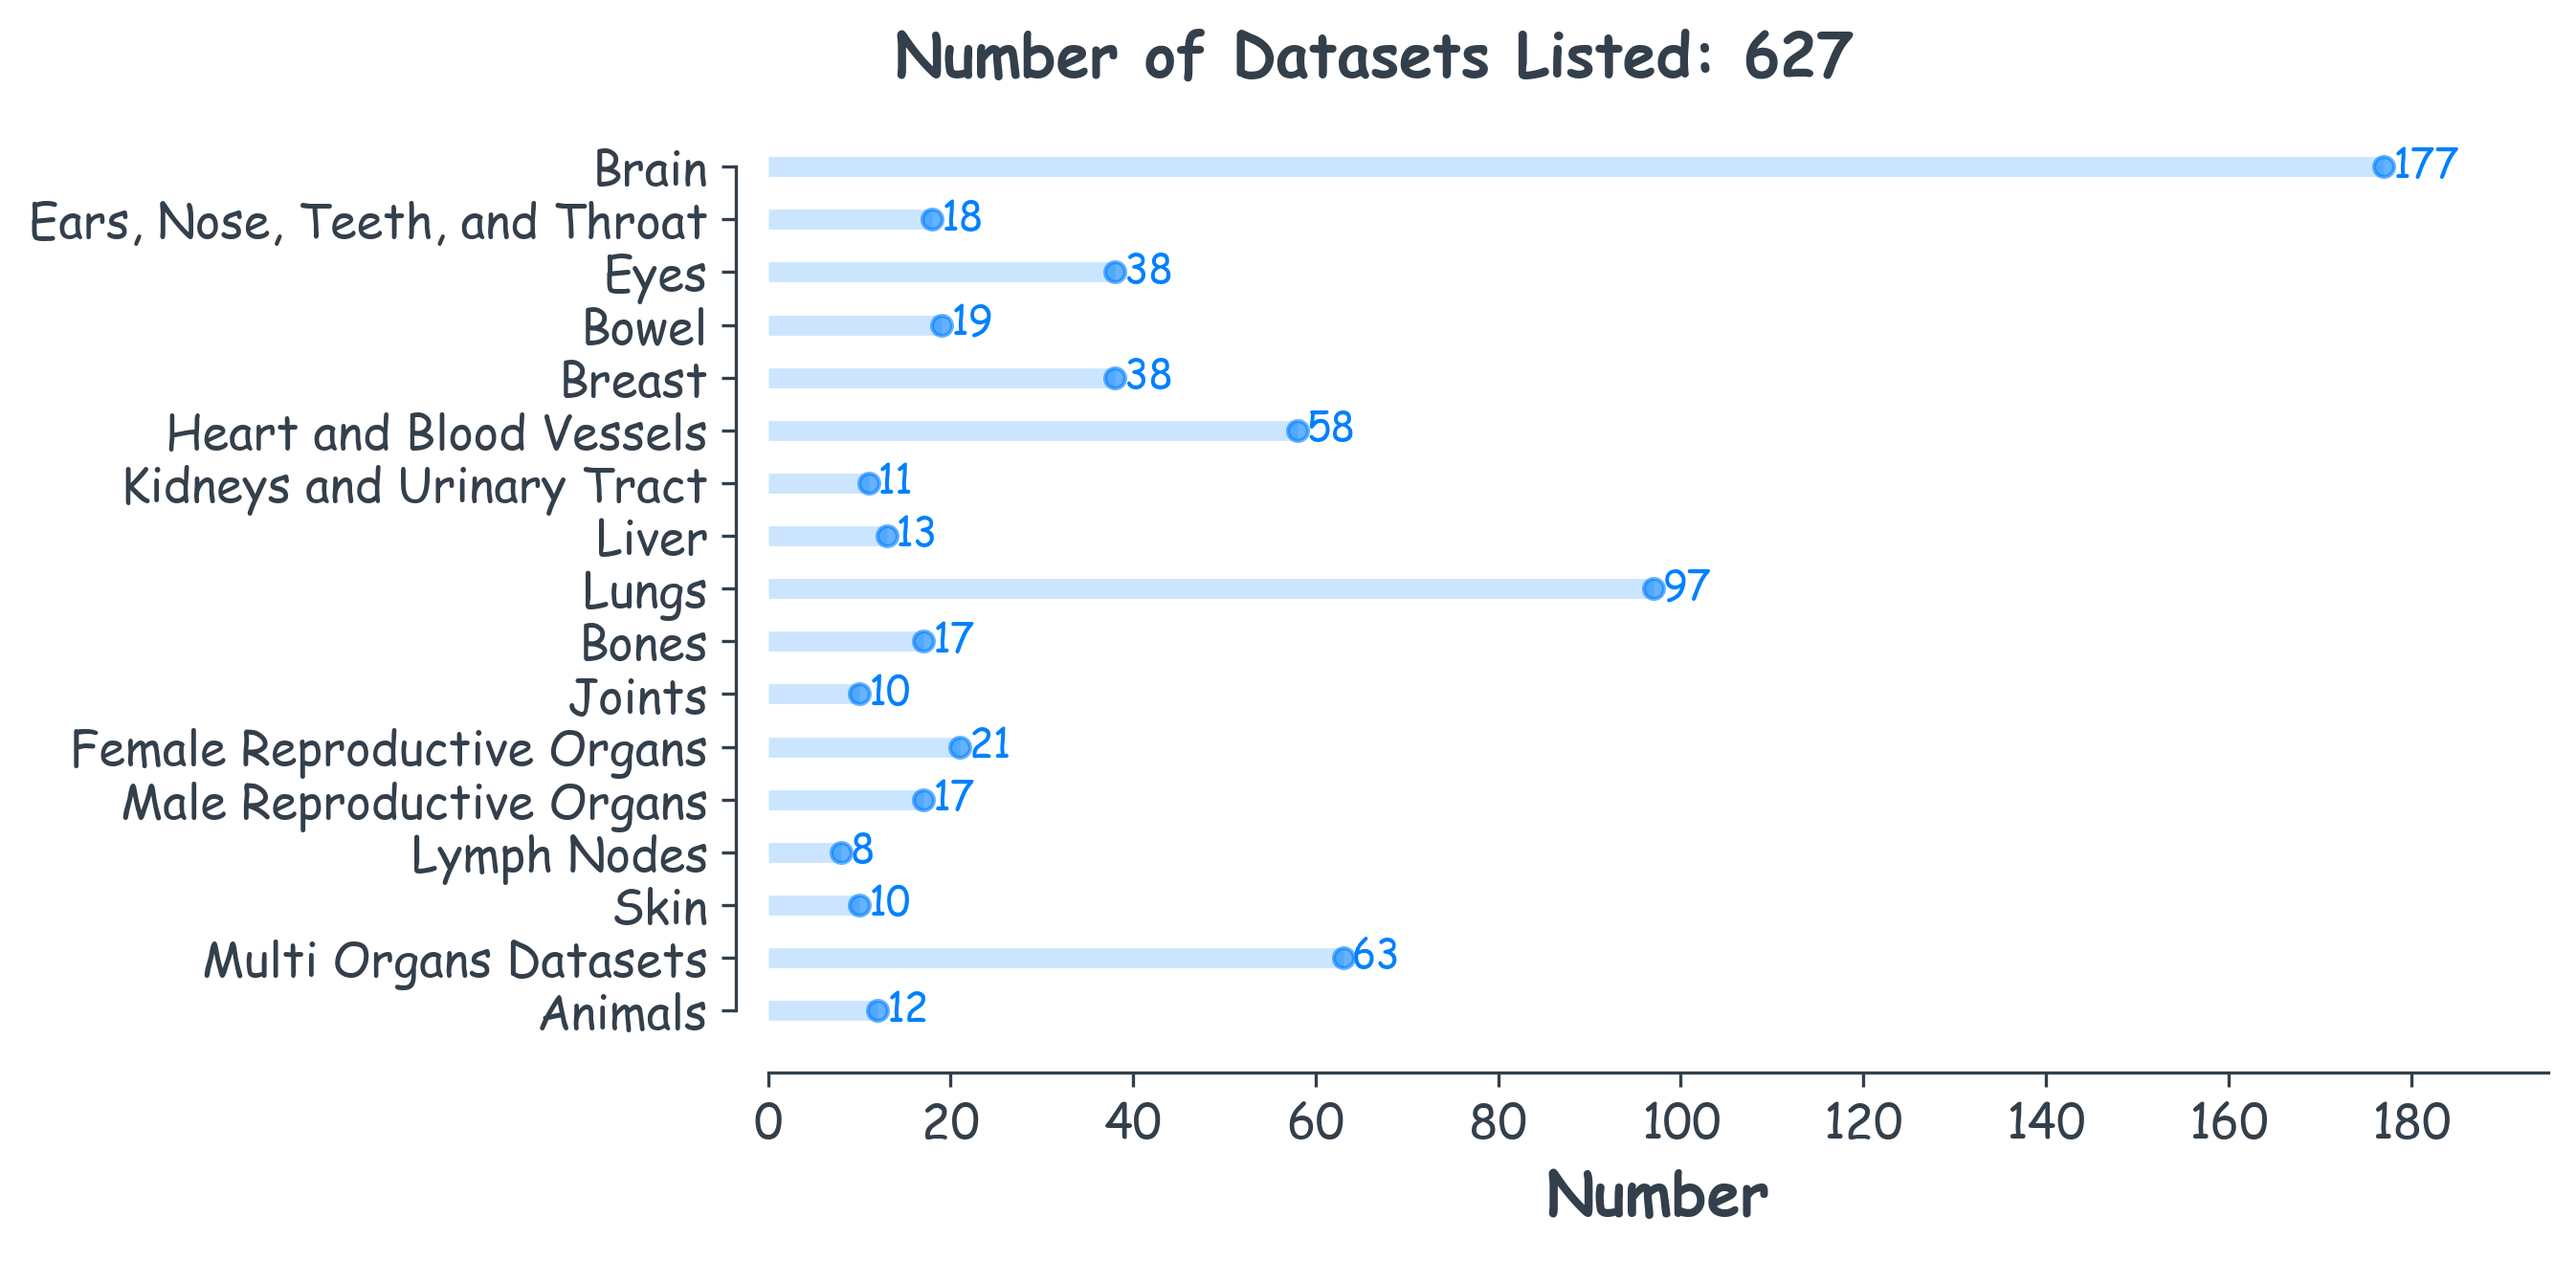
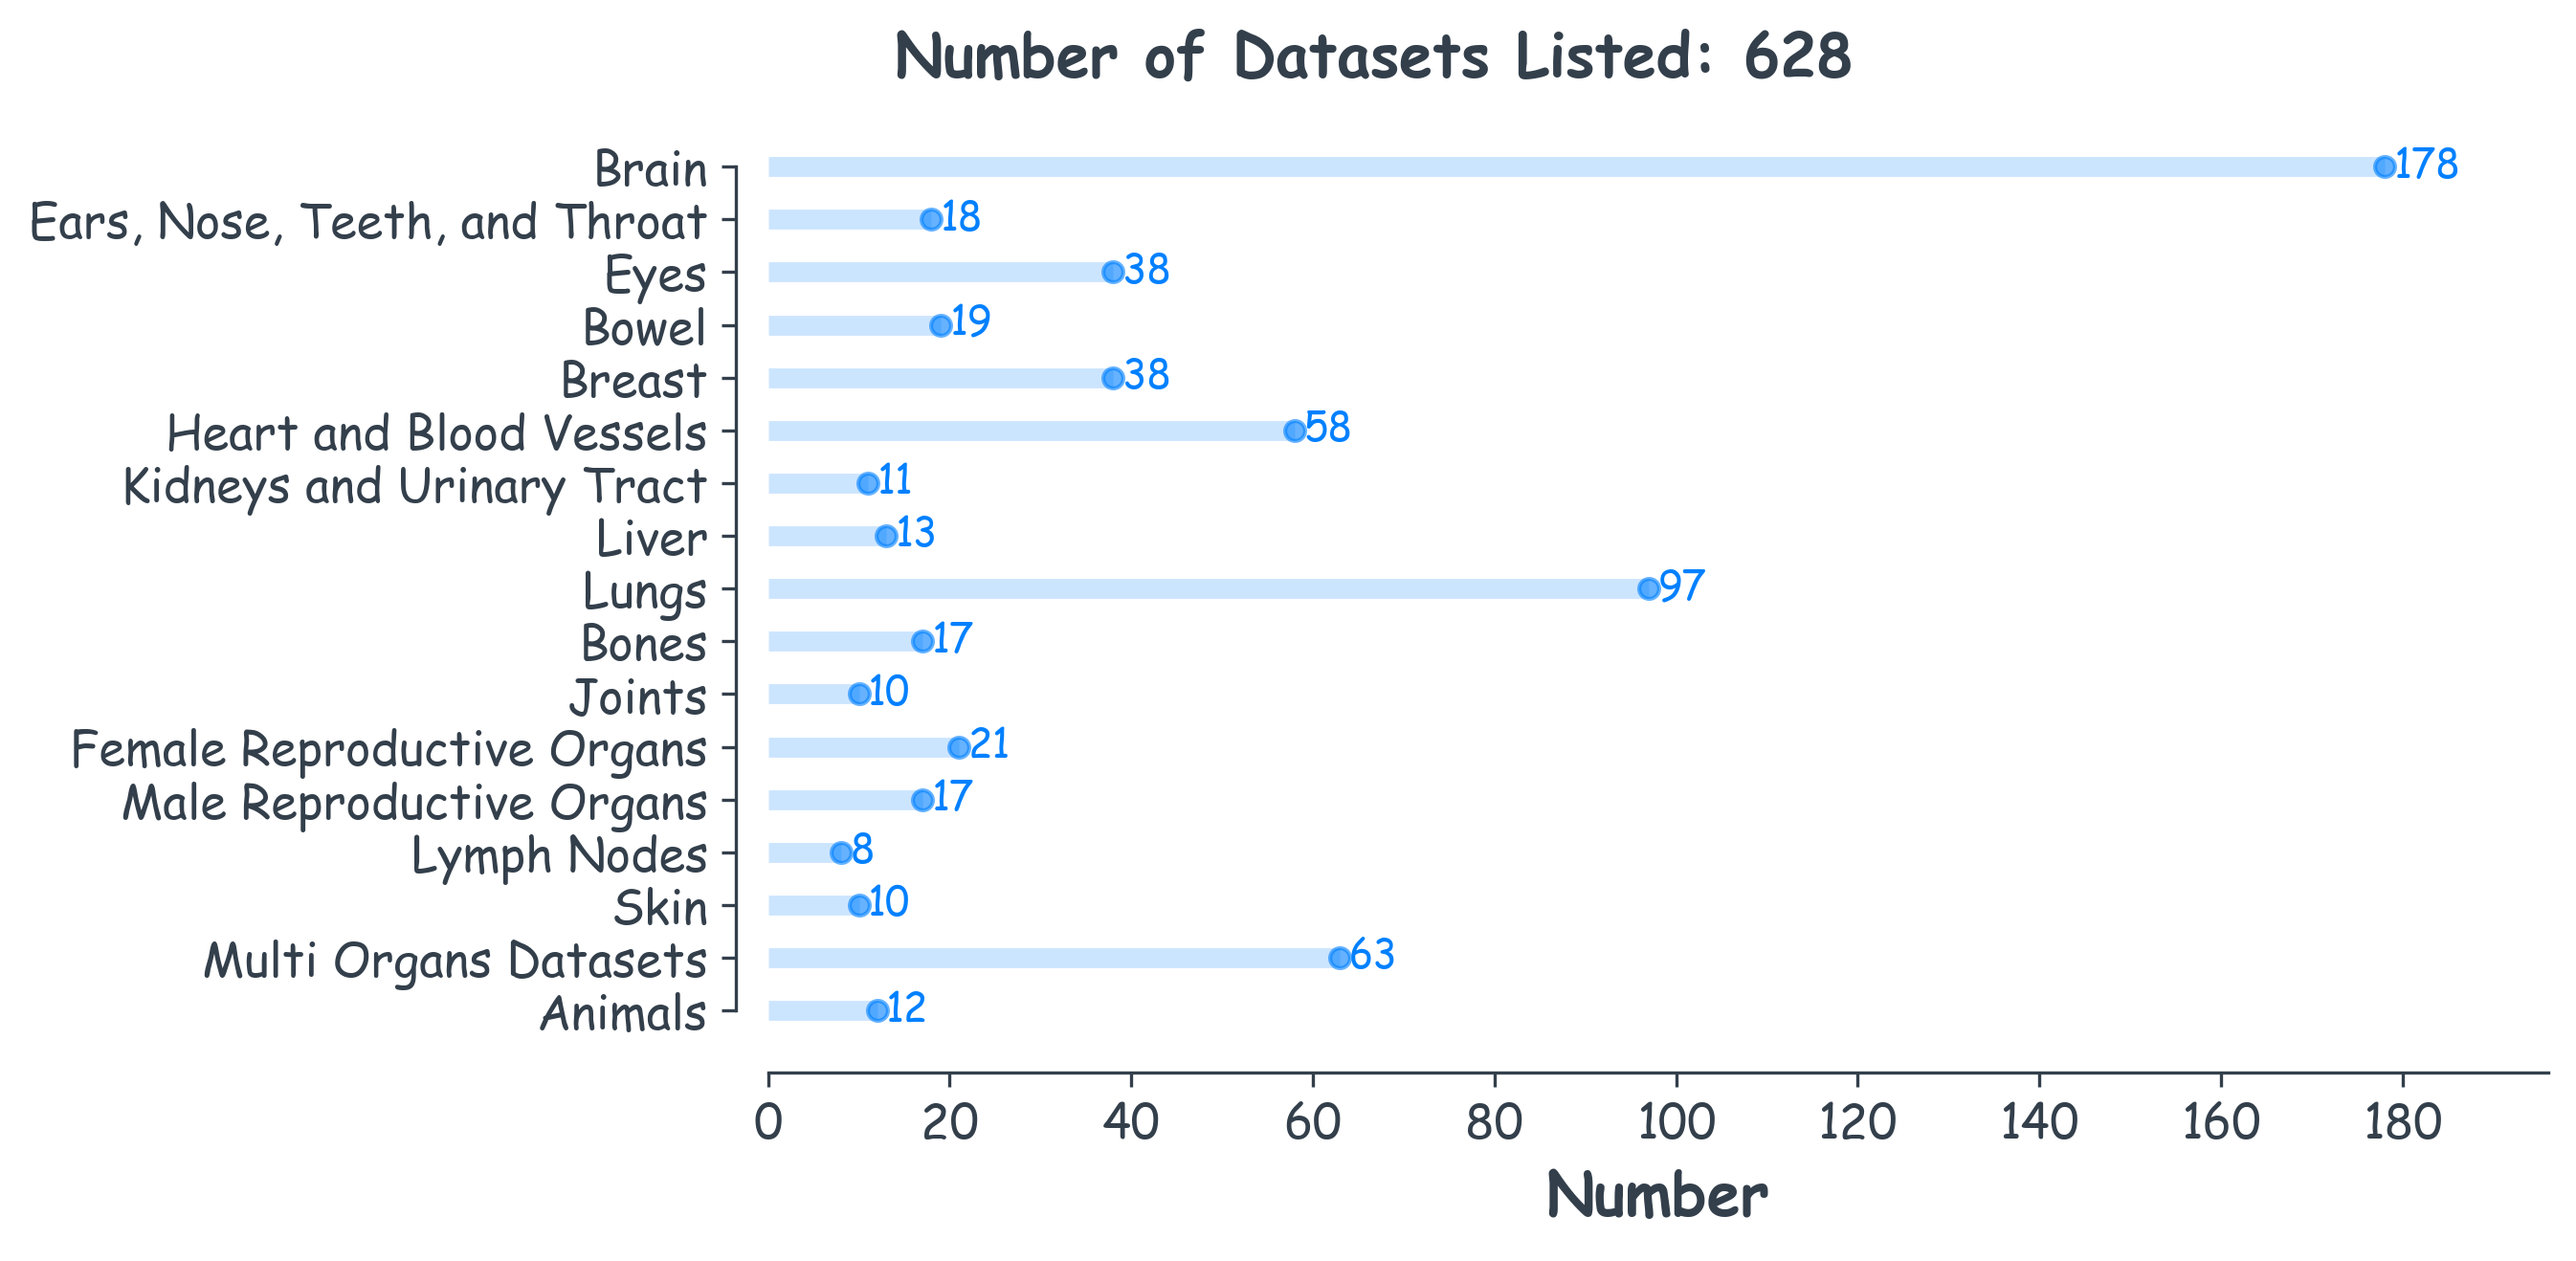
update image number, N = 628

diff --git a/src/datasetNumberImage.py b/src/datasetNumberImage.py
@@ -29,7 +29,7 @@ plt.rcParams['text.color']='#333F4B'
 
 
 data = {
-       'Brain': 177,
+       'Brain': 178,
        'Ears, Nose, Teeth, and Throat': 18, 
        'Eyes': 38,
        'Bowel': 19,
